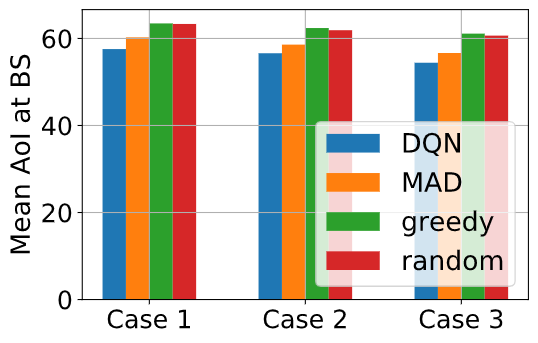
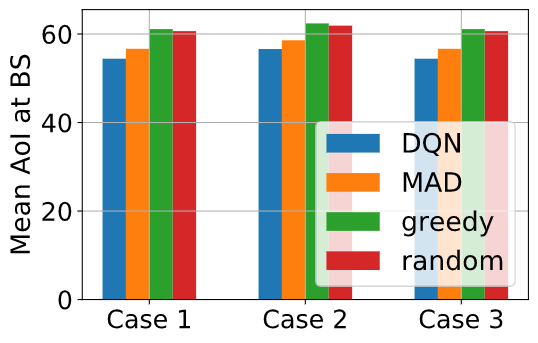
results added

diff --git a/main_tf.py b/main_tf.py
@@ -242,7 +242,7 @@ if __name__ == '__main__':
 
     deployments = ["RP"] #, "RP"] #, "MDS"]
     
-    schedulers  = ["dqn"] #["MAD", "dqn", "random", "greedy"] ##     scheduler_options  = ["random", "greedy", "MAD", "dqn", "c51"]
+    schedulers  = ["MAD", "dqn", "random", "greedy"] ##     scheduler_options  = ["random", "greedy", "MAD", "dqn", "c51"]
     
     limit_memory = False ## enabling this makes the code notbeing able to find CUDA device
     
